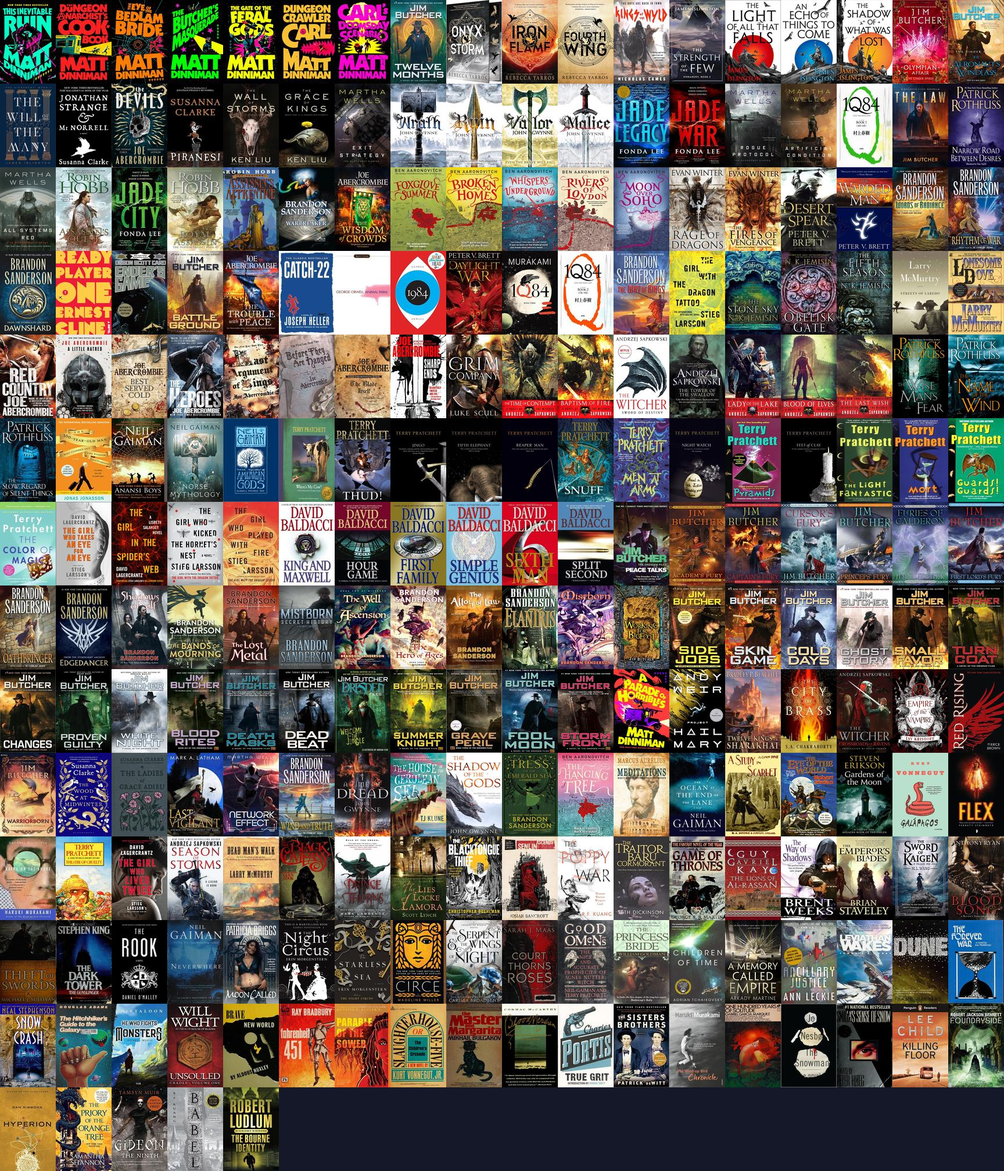
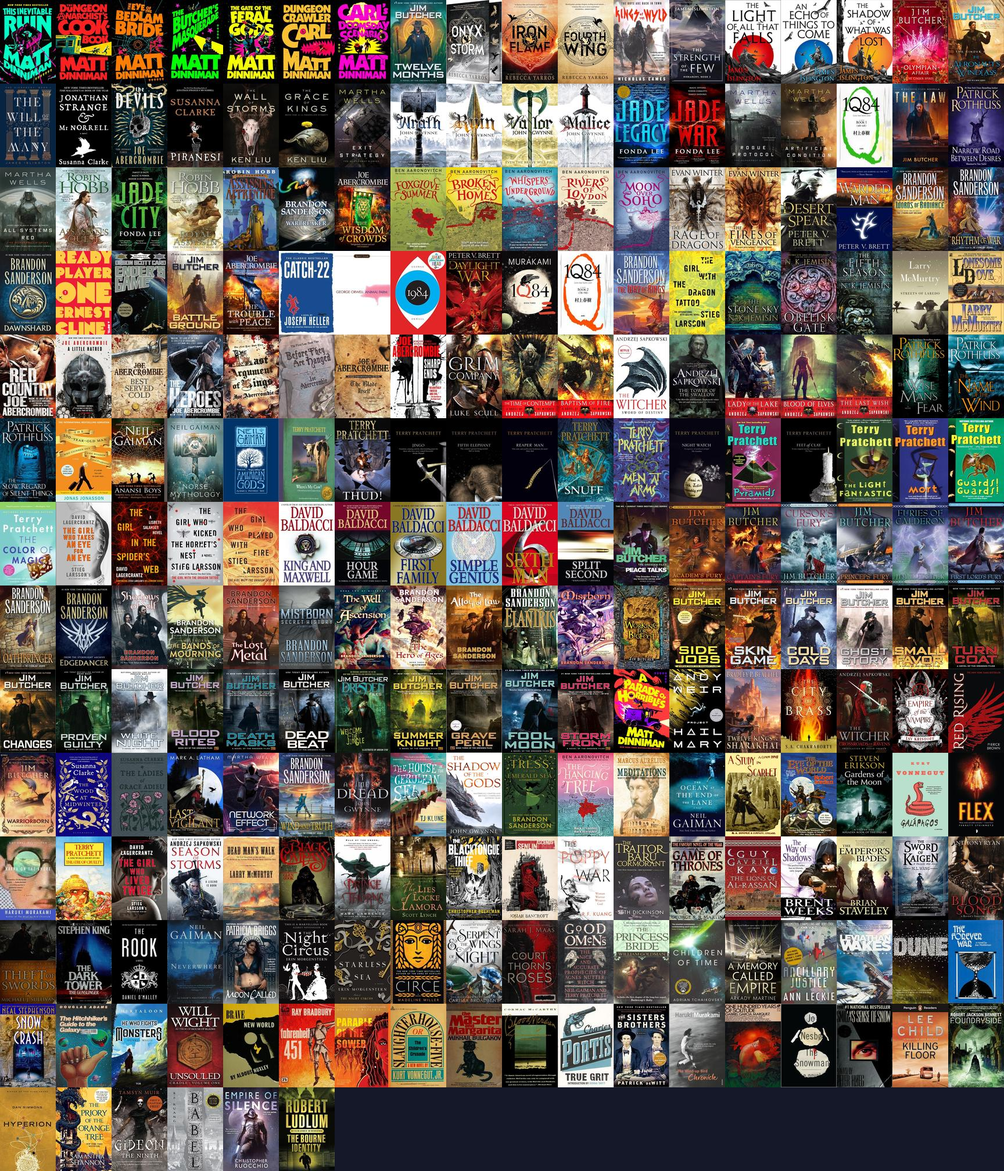
Add The Sun Eater (Empire of Silence) as a recommendation
Claude-Session: https://claude.ai/code/session_018dEQ7CEFoiJ4unAJGycxhy

Changed region(s): [[0.2188, 0.9062, 0.3438, 1.0]]

diff --git a/scripts/make_curation.py b/scripts/make_curation.py
@@ -203,6 +203,8 @@ RECS = [
   "Necromancers in space, a locked-room mystery and irreverent humour, for fans of Dungeon Crawler Carl's tone."),
  ("babel", "Babel", "R.F. Kuang", 2022, ["Mythic & Literary Fantasy"], ["14201", "50202953"],
   "Dark academia in an alternate Oxford where translation is magic: Strange & Norrell's scholarly England turned political."),
+ ("sun-eater", "Empire of Silence (The Sun Eater, #1)", "Christopher Ruocchio", 2018, ["Science Fantasy", "Grimdark"], ["186074", "32758901"],
+  "A far-future space opera told as a villain's confession: Name of the Wind's retrospective narrator on a Dune-scale canvas of dying empires, with a grim, war-weary edge."),
  ("bourne-identity", "The Bourne Identity", "Robert Ludlum", 1980, ["Action Thriller"], ["204276", "93947"],
   "A man with no memory and lethal skills: a classic of the conspiracy thriller."),
 ]
@@ -222,7 +224,7 @@ FIT = {
     "parable-sower": 70, "slaughterhouse": 68, "master-margarita": 66, "blood-meridian": 70, "true-grit": 66,
     "sisters-brothers": 72, "wind-up-bird": 55, "hundred-years": 52, "snowman": 70, "smilla": 60,
     "killing-floor": 74, "bourne-identity": 68, "foundryside": 90, "hyperion": 82, "priory-orange-tree": 80,
-    "gideon-ninth": 70, "babel": 68,
+    "gideon-ninth": 70, "babel": 68, "sun-eater": 86,
 }
 
 
